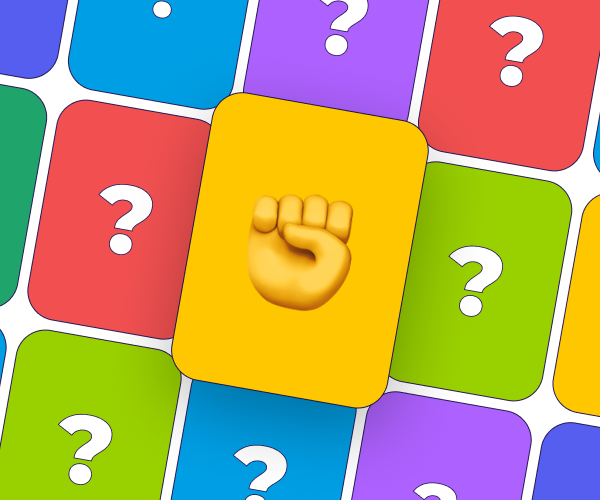
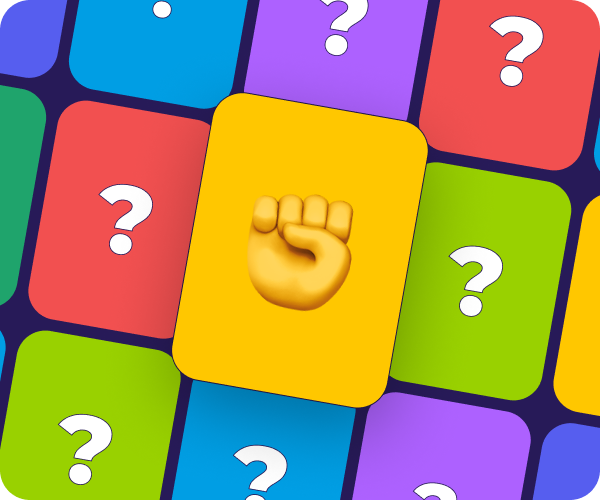
...

diff --git a/index.html b/index.html
@@ -1,21 +1,26 @@
 <!DOCTYPE html>
 <html lang="ru">
+
 <head>
     <meta charset="UTF-8">
     <meta name="viewport" content="width=device-width, initial-scale=1.0">
     <link rel="preconnect" href="https://fonts.googleapis.com">
     <link rel="preconnect" href="https://fonts.gstatic.com" crossorigin>
-    <link href="https://fonts.googleapis.com/css2?family=Montserrat:ital,wght@0,100..900;1,100..900&display=swap" rel="stylesheet">
+    <link href="https://fonts.googleapis.com/css2?family=Montserrat:ital,wght@0,100..900;1,100..900&display=swap"
+        rel="stylesheet">
     <link rel="stylesheet" href="./style.css">
     <title>Document</title>
 </head>
+
 <body>
     <section class="page-repo">
         <header class="header container">
             <div class="header__content">
                 <h1 class="header__heading">Добро пожаловать<br>на мой сайт мини-игр</h1>
-                <p class="header__text">Тебе предстоит пройти несколько увлекательных игр. Если готов, нажимай 
-                    <span class="header__text-bold">«Поехали!»</span> и <span class="header__text-bold">приступай.</span></p>
+                <p class="header__text">Тебе предстоит пройти несколько увлекательных игр. Если готов, нажимай
+                    <span class="header__text-bold">«Поехали!»</span> и <span
+                        class="header__text-bold">приступай.</span>
+                </p>
             </div>
             <a href="#about" class="header__btn">Поехали!</a>
         </header>
@@ -24,33 +29,49 @@
                 <li class="ticker__item">Викторина</li>
                 <li class="ticker__item">
                     <svg xmlns="http://www.w3.org/2000/svg" width="36" height="36" viewBox="0 0 36 36" fill="none">
-                        <path d="M18 0L22.8616 13.1384L36 18L22.8616 22.8616L18 36L13.1384 22.8616L0 18L13.1384 13.1384L18 0Z" fill="#202027"/>
+                        <path
+                            d="M18 0L22.8616 13.1384L36 18L22.8616 22.8616L18 36L13.1384 22.8616L0 18L13.1384 13.1384L18 0Z"
+                            fill="#202027" />
                     </svg>
                 </li>
                 <li class="ticker__item">угадай число</li>
-                <li class="ticker__item"><svg xmlns="http://www.w3.org/2000/svg" width="36" height="36" viewBox="0 0 36 36" fill="none">
-                        <path d="M18 0L22.8616 13.1384L36 18L22.8616 22.8616L18 36L13.1384 22.8616L0 18L13.1384 13.1384L18 0Z" fill="#202027"/>
+                <li class="ticker__item"><svg xmlns="http://www.w3.org/2000/svg" width="36" height="36"
+                        viewBox="0 0 36 36" fill="none">
+                        <path
+                            d="M18 0L22.8616 13.1384L36 18L22.8616 22.8616L18 36L13.1384 22.8616L0 18L13.1384 13.1384L18 0Z"
+                            fill="#202027" />
                     </svg>
                 </li>
                 <li class="ticker__item">Переверни текст</li>
-                <li class="ticker__item"><svg xmlns="http://www.w3.org/2000/svg" width="36" height="36" viewBox="0 0 36 36" fill="none">
-                        <path d="M18 0L22.8616 13.1384L36 18L22.8616 22.8616L18 36L13.1384 22.8616L0 18L13.1384 13.1384L18 0Z" fill="#202027"/>
+                <li class="ticker__item"><svg xmlns="http://www.w3.org/2000/svg" width="36" height="36"
+                        viewBox="0 0 36 36" fill="none">
+                        <path
+                            d="M18 0L22.8616 13.1384L36 18L22.8616 22.8616L18 36L13.1384 22.8616L0 18L13.1384 13.1384L18 0Z"
+                            fill="#202027" />
                     </svg>
                 </li>
                 <li class="ticker__item">Простая арифметика</li>
-                <li class="ticker__item"><svg xmlns="http://www.w3.org/2000/svg" width="36" height="36" viewBox="0 0 36 36" fill="none">
-                        <path d="M18 0L22.8616 13.1384L36 18L22.8616 22.8616L18 36L13.1384 22.8616L0 18L13.1384 13.1384L18 0Z" fill="#202027"/>
+                <li class="ticker__item"><svg xmlns="http://www.w3.org/2000/svg" width="36" height="36"
+                        viewBox="0 0 36 36" fill="none">
+                        <path
+                            d="M18 0L22.8616 13.1384L36 18L22.8616 22.8616L18 36L13.1384 22.8616L0 18L13.1384 13.1384L18 0Z"
+                            fill="#202027" />
                     </svg>
                 </li>
                 <li class="ticker__item">Камень, ножницы, бумага</li>
-                <li class="ticker__item"><svg xmlns="http://www.w3.org/2000/svg" width="36" height="36" viewBox="0 0 36 36" fill="none">
-                        <path d="M18 0L22.8616 13.1384L36 18L22.8616 22.8616L18 36L13.1384 22.8616L0 18L13.1384 13.1384L18 0Z" fill="#202027"/>
+                <li class="ticker__item"><svg xmlns="http://www.w3.org/2000/svg" width="36" height="36"
+                        viewBox="0 0 36 36" fill="none">
+                        <path
+                            d="M18 0L22.8616 13.1384L36 18L22.8616 22.8616L18 36L13.1384 22.8616L0 18L13.1384 13.1384L18 0Z"
+                            fill="#202027" />
                     </svg>
                 </li>
                 <li class="ticker__item">Генератор случайных цветов</li>
                 <li class="ticker__item">
                     <svg xmlns="http://www.w3.org/2000/svg" width="36" height="36" viewBox="0 0 36 36" fill="none">
-                        <path d="M18 0L22.8616 13.1384L36 18L22.8616 22.8616L18 36L13.1384 22.8616L0 18L13.1384 13.1384L18 0Z" fill="#202027"/>
+                        <path
+                            d="M18 0L22.8616 13.1384L36 18L22.8616 22.8616L18 36L13.1384 22.8616L0 18L13.1384 13.1384L18 0Z"
+                            fill="#202027" />
                     </svg>
                 </li>
             </ul>
@@ -60,7 +81,8 @@
     <main class="main">
         <section class="about container" id="about">
             <h2 class="about__title title-section">Об играх</h2>
-            <p class="about__text">В моей коллекции представлено 6 игр на разные темы.Игры несложные — в них может поиграть каждый. <br>Все игры доступны для пользования.</p>
+            <p class="about__text">В моей коллекции представлено 6 игр на разные темы.Игры несложные — в них может
+                поиграть каждый. <br>Все игры доступны для пользования.</p>
             <div class="cards">
                 <article class="card">
                     <a href="#numbers" class="card__link">
@@ -68,7 +90,7 @@
                         <div class="card__content">
                             <p class="card__subtitle">Игра № 1</p>
                             <h3 class="card__title">Угадай число</h3>
-                    </div>
+                        </div>
                     </a>
                 </article>
                 <article class="card">
@@ -125,7 +147,7 @@
                     <div class="card-vertical__content">
                         <h3 class="card-vertical__title">Угадай число</h3>
                         <p class="card-vertical__subtitle">Попробуй угадать случайное число от 1 до 100.</p>
-                        <a href="#" class="card-vertical__btn">Играть!</a>
+                        <a href="#" class="card-vertical__btn" onclick="quessNumber()">Играть!</a>
                     </div>
                     <img src="./img/numbers-vert.svg" alt="numbers" class="card-vertical__img">
                 </article>
@@ -151,7 +173,7 @@
                         <p class="card-vertical__subtitle">Сыграй в популярную игру против компьютера.</p>
                         <a href="#" class="card-vertical__btn">Играть!</a>
                     </div>
-                    <img src="./img/rock-stone-vert.jpg" alt="rock-stone" class="card-vertical__img">
+                    <img src="./img/rock-stone-vert.png" alt="rock-stone" class="card-vertical__img">
                 </article>
                 <article class="card-vertical" id="quiz">
                     <div class="card-vertical__content">
@@ -164,7 +186,8 @@
                 <article class="card-vertical card-vertical_img-right" id="random">
                     <div class="card-vertical__content">
                         <h3 class="card-vertical__title">Генератор случайных цветов</h3>
-                        <p class="card-vertical__subtitle">Игра, в которой при клике на кнопку фон страницы меняется на случайный.</p>
+                        <p class="card-vertical__subtitle">Игра, в которой при клике на кнопку фон страницы меняется на
+                            случайный.</p>
                         <a href="#" class="card-vertical__btn">Играть!</a>
                     </div>
                     <img src="./img/random-vert.svg" alt="random" class="card-vertical__img">
@@ -180,5 +203,7 @@
     <script src="hw2.js"></script>
     <script src="hw3.js"></script>
     <script src="hw4.js"></script>
+    <script src="hw5.js"></script>
 </body>
+
 </html>

diff --git a/hw5.js b/hw5.js
@@ -1,0 +1,49 @@
+/* function quessNumber(){
+    const randomNumber = Math.floor(Math.random() * 100) + 1;
+    let userNumber = +prompt('Угадайте число от 1 до 100');
+    
+    while (randomNumber !== userNumber){
+        if(userNumber === null){
+            alert('Вы нажали "Отмена". Игра прервана');
+            break;
+        } else if (!Number(userNumber)){
+            alert('Не число! Игра прервана');
+            break;
+        } else if (userNumber < 0 || userNumber > 100){
+            alert('Игра прервана');
+            break;
+        }
+
+        if (randomNumber > userNumber) {
+            alert('Загаданное число больше вашего');
+        } else if (randomNumber < userNumber) {
+            alert('Загаданное число меньше вашего');
+        }
+        userNumber = +prompt('Введите число еще раз');
+
+        alert('Вы угадали!!!');
+    };    
+} */
+
+
+//1. 
+
+/* function getMin(a, b) {
+    if(a >= b){
+        return b;
+    } else{
+        return a;
+    }
+} */
+
+    // ИЛИ
+
+function getMin(a, b){
+    return a >= b ? b : a;
+}
+
+console.log(getMin(8, 4));
+console.log(getMin(5, 15));
+console.log(getMin(8, 8));
+
+//2.

diff --git a/blocks/_index-mob.scss b/blocks/_index-mob.scss
@@ -113,3 +113,4 @@
     }
 }
 
+
